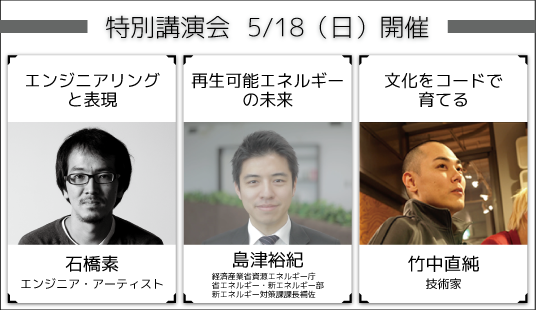
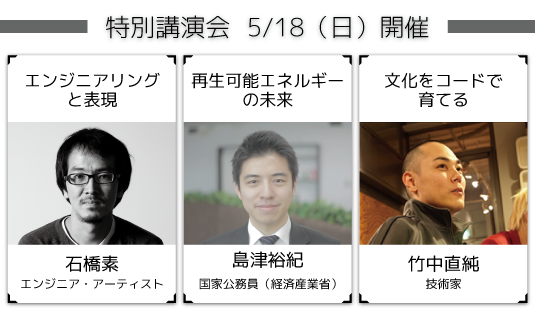
公開第一弾

diff --git a/exhibition.html b/exhibition.html
@@ -18,7 +18,7 @@
       <div id="contents">
         <header>
         <div class="logo_area">
-          <div class="logo_eeic"><img src="img/header_eeic.png" alt="東京大学工学部電子情報・電気電子工学科五月祭特別ページ"></div>
+          <div class="logo_eeic"><a href="index.html"><img src="img/header_eeic.png" alt="東京大学工学部電子情報・電気電子工学科五月祭特別ページ"></a></div>
           <div class="logo_title"><img src="img/header_title.png" alt="近未来体験2014"></div>
         </div>
         <nav>
@@ -38,7 +38,7 @@
 <div class="info">日程：全日</div>
 <div class="info">場所：工学部3号館1階（ポスター展示）、工学部2号館3階電気系会議室1・3（デモンストレーション展示）、工学部2号館3階電気系会議室2（学生制作物展示）</div>
 <div class="disc">
-  <p>電気系学科の研究室の最先端の研究成果を掲載したポスター展示を3号館1階で、研究内容に関連した体験型のデモンストレーション展示を電気系会議室1・3で、学部3年生による授業内制作物の展示を電気系会議室2で行います。</br>ポスター展示では電気系学科で行われている最先端の研究内容を紹介します。デモンストレーション展示では、電気系の技術がどのように役に立っているかを、実際にリニアモーターカーに試乗したりヘッドマウントディスプレイを使用したゲームで遊んだりすることで、実際に体験しながら知ることができます。学生制作物展示では、学部3年制が授業内で制作した、OpenCV/GLを用いて作成したソフトウェアや電子工作などを展示しています。</p>
+  <p>電気系学科の研究室の最先端の研究成果を掲載したポスター展示を3号館1階で、研究内容に関連した体験型のデモンストレーション展示を電気系会議室1・3で、学部3年生による授業内制作物の展示を電気系会議室2で行います。</br>ポスター展示では電気系学科で行われている最先端の研究内容を紹介します。デモンストレーション展示では、電気系の技術がどのように役に立っているかを、実際にリニアモーターカーに試乗したりヘッドマウントディスプレイを使用したゲームで遊んだりすることで、体験しながら知ることができます。学生制作物展示では、学部3年制が授業内で制作した、OpenCV/GLを用いて作成したソフトウェアや電子工作などを展示しています。</p>
 </div>
 <h3>デモンストレーション展示の紹介</h3>
 <p>写真の上にカーソルを移動させると詳細が表示されます。</p>

diff --git a/lecture.html b/lecture.html
@@ -18,7 +18,7 @@
       <div id="contents">
         <header>
         <div class="logo_area">
-          <div class="logo_eeic"><img src="img/header_eeic.png" alt="東京大学工学部電子情報・電気電子工学科五月祭特別ページ"></div>
+          <div class="logo_eeic"><a href="index.html"><img src="img/header_eeic.png" alt="東京大学工学部電子情報・電気電子工学科五月祭特別ページ"></a></div>
           <div class="logo_title"><img src="img/header_title.png" alt="近未来体験2014"></div>
         </div>
         <nav>
@@ -56,7 +56,7 @@
 <div class="lecturer">
   <div class="time">13:00~14:30</div>
   <div class="name">島津裕紀</div>
-  <div class="occupation">経済産業省資源エネルギー庁省エネルギー・新エネルギー部新エネルギー対策課課長補佐</div>
+  <div class="occupation">国家公務員（経済産業省）</div>
   <img src="img/shimazu.png" alt="島津裕紀">
   <div class="title">「再生可能エネルギーの未来」</div>
   <div class="disc">エネルギー資源の少ない日本は、太陽光や風力などの再生可能エネルギーの利用拡大が急務です。本講演では、政府が現在、再生可能エネルギーの最大限の導入のために取り組んでいる最先端のプロジェクト－例えば、福島県沖の海上に浮かぶ世界最大級の風力発電所の建設－などについてお話します。また、産学官の連携により、今後どのような課題解決が求められているかについても議論したいと思います。</div>

diff --git a/workshop.html b/workshop.html
@@ -18,7 +18,7 @@
       <div id="contents">
         <header>
         <div class="logo_area">
-          <div class="logo_eeic"><img src="img/header_eeic.png" alt="東京大学工学部電子情報・電気電子工学科五月祭特別ページ"></div>
+          <div class="logo_eeic"><a href="index.html"><img src="img/header_eeic.png" alt="東京大学工学部電子情報・電気電子工学科五月祭特別ページ"></a></div>
           <div class="logo_title"><img src="img/header_title.png" alt="近未来体験2014"></div>
         </div>
         <nav>
@@ -105,7 +105,7 @@
     <dt>場所</dt>
     <dd>工学部2号館4階241教室</dd>
     <dt>対象年齢</dt>
-    <dd>中高生</dd>
+    <dd>中高生以上</dd>
     <dt>定員</dt>
     <dd>各回20~30名</dd>
     <dt>予約</dt>
@@ -123,8 +123,7 @@
 <div class="wsdetail">
   <dl>
     <dt>日程</dt>
-    <dd>5/17（土）10:00~10:30/14:00~14:30</dd>
-    <dd>5/18（日）11:00~11:30/14:00~14:30/16:00~16:30</dd>
+    <dd>5/17（土）10:00~10:30/14:00~14:30</br>5/18（日）11:00~11:30/14:00~14:30/16:00~16:30</dd>
     <dt>場所</dt>
     <dd>工学部2号館4階241教室</dd>
     <dt>対象年齢</dt>

diff --git a/access.html b/access.html
@@ -18,7 +18,7 @@
       <div id="contents">
         <header>
         <div class="logo_area">
-          <div class="logo_eeic"><img src="img/header_eeic.png" alt="東京大学工学部電子情報・電気電子工学科五月祭特別ページ"></div>
+          <div class="logo_eeic"><a href="index.html"><img src="img/header_eeic.png" alt="東京大学工学部電子情報・電気電子工学科五月祭特別ページ"></a></div>
           <div class="logo_title"><img src="img/header_title.png" alt="近未来体験2014"></div>
         </div>
         <nav>

diff --git a/index.html b/index.html
@@ -18,7 +18,7 @@
       <div id="contents">
         <header>
         <div class="logo_area">
-          <div class="logo_eeic"><img src="img/header_eeic.png" alt="東京大学工学部電子情報・電気電子工学科五月祭特別ページ"></div>
+          <div class="logo_eeic"><a href="index.html"><img src="img/header_eeic.png" alt="東京大学工学部電子情報・電気電子工学科五月祭特別ページ"></a></div>
           <div class="logo_title"><img src="img/header_title.png" alt="近未来体験2014"></div>
         </div>
         <nav>

diff --git a/shingakusoudan.html b/shingakusoudan.html
@@ -18,7 +18,7 @@
       <div id="contents">
         <header>
         <div class="logo_area">
-          <div class="logo_eeic"><img src="img/header_eeic.png" alt="東京大学工学部電子情報・電気電子工学科五月祭特別ページ"></div>
+          <div class="logo_eeic"><a href="index.html"><img src="img/header_eeic.png" alt="東京大学工学部電子情報・電気電子工学科五月祭特別ページ"></a></div>
           <div class="logo_title"><img src="img/header_title.png" alt="近未来体験2014"></div>
         </div>
         <nav>
